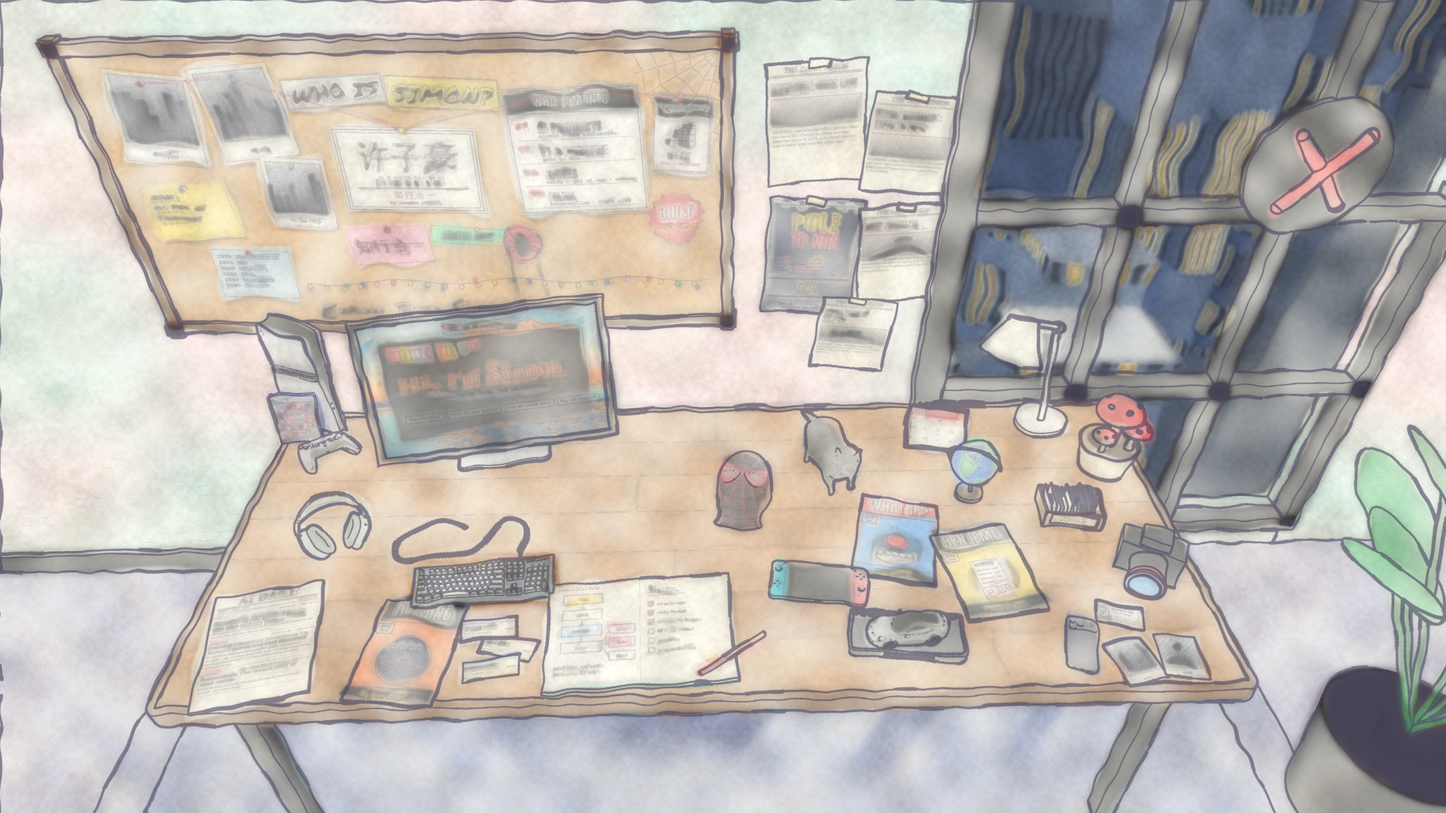
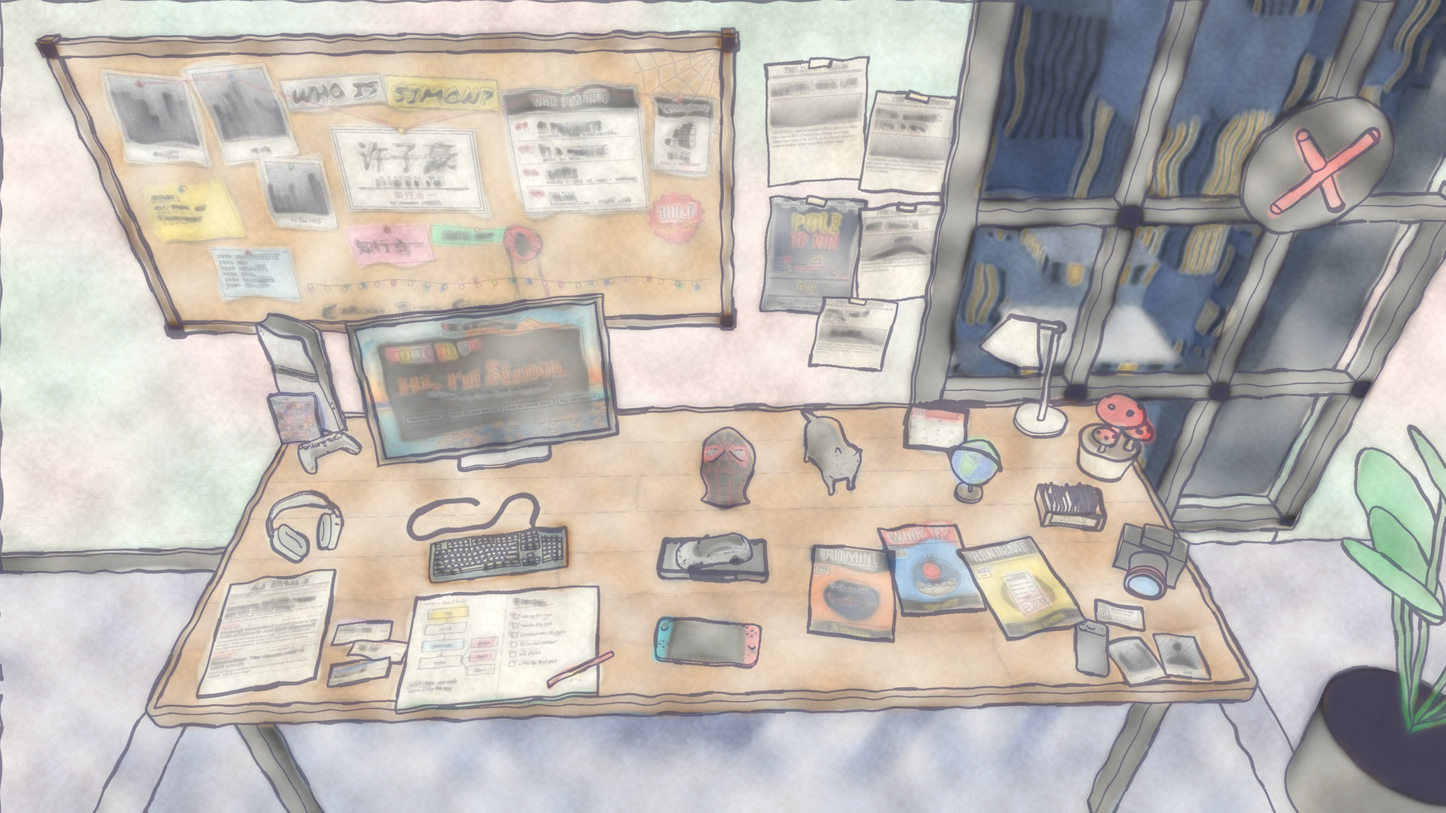
Rebalance the desk layout (#7)
* Scaffold Next.js personal site based on EdwinjJ1/personal-website

Static-export Next.js 15 site with home, about, projects, blog and
photography pages, a zh/en language switch, light/dark themes with the
WebGL starfield backdrop, placeholder content in src/data, and a GitHub
Pages deploy workflow.

Claude-Session: https://claude.ai/code/session_019ggxabgDhCYUh62LeLnHLD

* Switch to the 3D desk site from EdwinjJ1/personal-website 002

Replace the Next.js portfolio with the Blender desk + ten-style WebGL
site. The original author's text, photos, project art, logo and resume
details are removed and replaced with placeholders; hotspots are renamed
to generic ones (zine-1..4, badge, plant, table-model) and the club mascot
is dropped. Textures now use bundled OFL fonts so they build on any OS,
web fonts are self-hosted, and the chat falls back to canned answers until
a Worker is deployed. Renders (site/assets/styles, hot.png, scene.json)
are not generated yet.

Claude-Session: https://claude.ai/code/session_019ggxabgDhCYUh62LeLnHLD

* Remove the original author's journal API address and keychain name

Claude-Session: https://claude.ai/code/session_019ggxabgDhCYUh62LeLnHLD

* Redesign desk objects for a self-showcase site

Remove the trophies, GitHub city, round-table model and echo puck. Add a
mini race track with a Porsche, a year-in-review calendar, a globe, movie
ticket stubs, an index-card box for podcasts and WeChat reads, a sleeping
[…]

Changed region(s): [[0.125, 0.5273, 0.7812, 0.8995]]

diff --git a/site/js/app.js b/site/js/app.js
@@ -1,13 +1,13 @@
 // 入口：状态、交互、面板（静态 + 从旧站导入的内容）、对话、阅读模式。画面交给 stage.js，坐标换算在 geometry.js。
 import { groupAlbums } from './albums.js';
 import { streamChat } from './chat.js';
-import { ALBUMS, APPLE_MUSIC, CHAT, DYNAMIC, HOTS, INTRO_ORDER, LABELS, NOTEBOOK, PANELS, STYLES, UI, appleEmbed, matchTopic } from './content.js?v=20261030-3';
+import { ALBUMS, APPLE_MUSIC, CHAT, DYNAMIC, HOTS, INTRO_ORDER, LABELS, NOTEBOOK, PANELS, STYLES, UI, appleEmbed, matchTopic } from './content.js?v=20261030-4';
 import * as G from './geometry.js?v=20261011-1';
 import { renderGithub, tipLabel } from './github.js';
 import { renderJournal } from './journal.js?v=20261012-2';
 import { coverUrl, createPlayer, fmtTime } from './music.js';
 import { renderNews } from './news.js';
-import { createStage, hexToRgb, styleUrl } from './stage.js?v=20261030-3';
+import { createStage, hexToRgb, styleUrl } from './stage.js?v=20261030-4';
 import { createTour } from './tour.js';
 import { CENTER as WEB_CENTER, earthOf, hostOf, webLayout } from './web.js';
 
@@ -1003,12 +1003,12 @@ async function boot() {
   applyLang();
   buildHud();
   try {
-    scene = await (await fetch('assets/scene.json?v=20261030-3')).json();
+    scene = await (await fetch('assets/scene.json?v=20261030-4')).json();
     img = { w: scene.width, h: scene.height };
     hotByIndex = Object.entries(scene.hots).reduce((arr, [name, h]) => { const next = arr.slice(); next[h.index] = name; return next; }, []);
     stage = createStage(dom.canvas, img);
     progress(0.2);
-    const hotImg = await new Promise((res, rej) => { const im = new Image(); im.onload = () => res(im); im.onerror = rej; im.src = 'assets/hot.png?v=20261030-3'; });
+    const hotImg = await new Promise((res, rej) => { const im = new Image(); im.onload = () => res(im); im.onerror = rej; im.src = 'assets/hot.png?v=20261030-4'; });
     const cv = document.createElement('canvas');
     cv.width = hotImg.width;
     cv.height = hotImg.height;

diff --git a/site/index.html b/site/index.html
@@ -7,13 +7,13 @@
   <meta name="description" content="Simon Xu 的个人网站：一张桌子，十个宇宙。">
   <meta property="og:title" content="Simon Xu · One desk, ten universes">
   <meta property="og:description" content="Click the mask to switch universe.">
-  <meta property="og:image" content="assets/styles/comic@1x.webp?v=20261030-3">
+  <meta property="og:image" content="assets/styles/comic@1x.webp?v=20261030-4">
   <meta name="theme-color" content="#14121c">
   <link rel="stylesheet" href="css/fonts.css">
-  <link rel="stylesheet" href="css/main.css?v=20261030-3">
+  <link rel="stylesheet" href="css/main.css?v=20261030-4">
   <link rel="stylesheet" href="css/news.css">
   <link rel="stylesheet" href="css/mobile.css?v=20261011-1">
-  <link rel="preload" as="image" href="assets/styles/comic@1x.webp?v=20261030-3">
+  <link rel="preload" as="image" href="assets/styles/comic@1x.webp?v=20261030-4">
 </head>
 <body>
   <div id="loader" role="status">
@@ -64,6 +64,6 @@
     </div>
   </noscript>
 
-  <script type="module" src="js/app.js?v=20261030-3"></script>
+  <script type="module" src="js/app.js?v=20261030-4"></script>
 </body>
 </html>

diff --git a/site/js/stage.js b/site/js/stage.js
@@ -79,7 +79,7 @@ function loadImage(src) {
 }
 
 /** 一个风格的贴图地址；hi=true 是全尺寸。手机上的小地图也用它，跟舞台走同一份缓存。 */
-export const styleUrl = (id, hi = false, base = 'assets/') => `${base}styles/${id}${hi ? '' : '@1x'}.webp?v=20261030-3`;
+export const styleUrl = (id, hi = false, base = 'assets/') => `${base}styles/${id}${hi ? '' : '@1x'}.webp?v=20261030-4`;
 
 export function hexToRgb(hex) {
   const h = hex.replace('#', '');

diff --git a/blender/layout.py b/blender/layout.py
@@ -169,7 +169,7 @@ def build_monitor():
 
 def build_track():
     """桌子右前方的 1:24 车模：黑色亚克力展台，台面一条格子旗纹，正面铭牌；上面是一台银色 911。"""
-    root = empty("track_root", (0.47, -0.36, T), (0, 0, R(-6)))   # 放在桌子右前方，光线好、离镜头近（显示器前面那块在阴影里）
+    root = empty("track_root", (0.02, -0.11, T), (0, 0, R(-4)))   # 桌子正中，面具和小猫前面
     w, d, h = 0.27, 0.12, 0.022
     slab("track_base", w, d, h, 0.012, (0, 0, h / 2), M("track_base", "#16171b", 0.2), hot="cars").parent = root
     slab("track_top", w - 0.012, d - 0.012, 0.002, 0.008, (0, 0, h + 0.001), M("track_asphalt", "#3a3d45", 0.85), hot="cars").parent = root
@@ -184,28 +184,28 @@ def build_left():
     # PS5 Slim + GTA VI + DualSense（Roberto Domínguez，CC BY 4.0）：立在桌子左后角，点开是游戏
     glb("ps5", "models/ps5.glb", 0.33, (-1.14, 0.40, T), rot=(0, 0, R(18)), hot="games")
     # AirPods Max（Mr.Philin，CC BY 4.0）：立在键盘左边，点开是 Apple Music 歌单
-    glb("airpods", "models/airpods_max.glb", 0.17, (-0.95, -0.04, T), rot=(0, 0, R(24)), hot="music")
+    glb("airpods", "models/airpods_max.glb", 0.17, (-1.02, -0.04, T), rot=(0, 0, R(24)), hot="music")
     # 键盘（Diego Clemente 的 Vintage Keyboard，CC BY 4.0），不要鼠标
-    glb("kb", "models/keyboard.glb", 0.42, (-0.60, -0.09, T + 0.001), rot=(0, 0, R(5)), hot="keyboard")
+    glb("kb", "models/keyboard.glb", 0.42, (-0.58, 0.0, T + 0.001), rot=(0, 0, R(8)), hot="keyboard")
     # 报纸（新闻）+ 项目一的刊物
-    decal("newspaper", 0.25, 0.327, (-1.05, -0.34), "newspaper.png", yaw=11, hot="news", thick=0.007, edge="#e8e2d0")
-    decal("zine_echo", 0.205, 0.28, (-0.70, -0.37), "zine_echo.png", yaw=-7, hot="zine-1", thick=0.006)
+    decal("newspaper", 0.25, 0.327, (-1.04, -0.30), "newspaper.png", yaw=9, hot="news", thick=0.007, edge="#e8e2d0")
+    decal("zine_echo", 0.205, 0.28, (0.36, -0.22), "zine_echo.png", yaw=-9, hot="zine-1", thick=0.006)
     # 两张电影票根（喜欢的电影和剧）
-    decal("ticket_a", 0.13, 0.055, (-0.50, -0.42), "ticket_0.png", yaw=9, hot="movies", thick=0.0006, edge="#f2e6c8")
-    decal("ticket_b", 0.13, 0.055, (-0.47, -0.36), "ticket_1.png", yaw=-14, z=0.0012, hot="movies", thick=0.0006, edge="#f2e6c8")
-    decal("ticket_c", 0.13, 0.055, (-0.52, -0.31), "ticket_2.png", yaw=4, z=0.0024, hot="movies", thick=0.0006, edge="#f2e6c8")
+    decal("ticket_a", 0.13, 0.055, (-0.80, -0.42), "ticket_0.png", yaw=9, hot="movies", thick=0.0006, edge="#f2e6c8")
+    decal("ticket_b", 0.13, 0.055, (-0.77, -0.36), "ticket_1.png", yaw=-14, z=0.0012, hot="movies", thick=0.0006, edge="#f2e6c8")
+    decal("ticket_c", 0.13, 0.055, (-0.82, -0.31), "ticket_2.png", yaw=4, z=0.0024, hot="movies", thick=0.0006, edge="#f2e6c8")
 
 
 def build_center():
     # 小布：美短（Zhuier 的猫模型，CC BY 4.0），贴图去掉棕色调成银虎斑；脸朝镜头偏右
     glb("cat", "models/cat.glb", 0.33, (0.34, 0.25, T), rot=(0, 0, R(16)), hot="cat", sat=0.12, val=1.25)
     # 迈尔斯的面具（spider boy，CC BY 4.0）：点它切换宇宙（致敬参考站）；仰面放倒，脸稍微朝镜头
-    glb("mask", "models/mask.glb", 0.24, (0.10, 0.05, T), rot=(0, 0, R(-10)), pre=(R(-72), 0, 0), hot="mask")
+    glb("mask", "models/mask.glb", 0.24, (0.06, 0.14, T), rot=(0, 0, R(-6)), pre=(R(-72), 0, 0), hot="mask")
     # 摊开的笔记本 + 笔
-    decal("notebook", 0.44, 0.308, (-0.16, -0.33), "notebook.png", yaw=3, hot="notebook", thick=0.012, edge="#2f9e77")
-    rod("nb_pen", (-0.02, -0.46, T + 0.022), (0.13, -0.36, T + 0.022), 0.006, M("nb_pen", "#e5484d", 0.4))
+    decal("notebook", 0.44, 0.308, (-0.48, -0.36), "notebook.png", yaw=4, hot="notebook", thick=0.012, edge="#2f9e77")
+    rod("nb_pen", (-0.36, -0.48, T + 0.022), (-0.22, -0.40, T + 0.022), 0.006, M("nb_pen", "#e5484d", 0.4))
     # Switch 掌机（Bjarne Stokhof，CC BY 4.0；原模型还带一台插在底座上的，只留掌机），和 PS5 一起点开是游戏
-    glb("switch", "models/switch.glb", 0.24, (0.28, -0.20, T), rot=(0, 0, R(-8)), hot="games", keep=lambda x, y, z: y < 0)
+    glb("switch", "models/switch.glb", 0.24, (0.0, -0.37, T), rot=(0, 0, R(-6)), hot="games", keep=lambda x, y, z: y < 0)
 
 
 def build_right():
@@ -269,10 +269,10 @@ def build_right():
         if k % 3 == 0:
             box(f"card_tab{k}", (0.002, 0.018, 0.012), (x, -0.02 + (k % 2) * 0.03, h + 0.008), tabs[(k // 3) % 4], rot=(0, R(-6 + (k % 3) * 2), 0), hot="cards", parent=kroot)
     # 刊物三本，扇形摊开
-    decal("zine_roundtable", 0.205, 0.28, (0.50, -0.05), "zine_roundtable.png", yaw=-13, hot="zine-2", thick=0.006)
-    decal("zine_athena", 0.205, 0.28, (0.71, -0.17), "zine_athena.png", yaw=9, hot="zine-3", thick=0.006, z=0.008)
+    decal("zine_roundtable", 0.205, 0.28, (0.57, -0.15), "zine_roundtable.png", yaw=3, hot="zine-2", thick=0.006)
+    decal("zine_athena", 0.205, 0.28, (0.78, -0.22), "zine_athena.png", yaw=12, hot="zine-3", thick=0.006, z=0.008)
     # iPhone 17 Pro（zhe_kan，CC BY-NC-SA 4.0；原模型是正反两台，只留背面那台）：背面朝上平放，点开是联系方式
-    glb("phone", "models/iphone.glb", 0.15, (0.88, -0.39, T), rot=(0, 0, R(-18)), pre=(R(-90), 0, 0), hot="contact", keep=lambda x, y, z: x < 0)
+    glb("phone", "models/iphone.glb", 0.15, (0.90, -0.40, T), rot=(0, 0, R(-18)), pre=(R(-90), 0, 0), hot="contact", keep=lambda x, y, z: x < 0)
     # 相机
     cxm, cym, cyaw = 1.12, -0.16, R(-28)
     cam_b = M("cam_body", "#22242a", 0.5)
